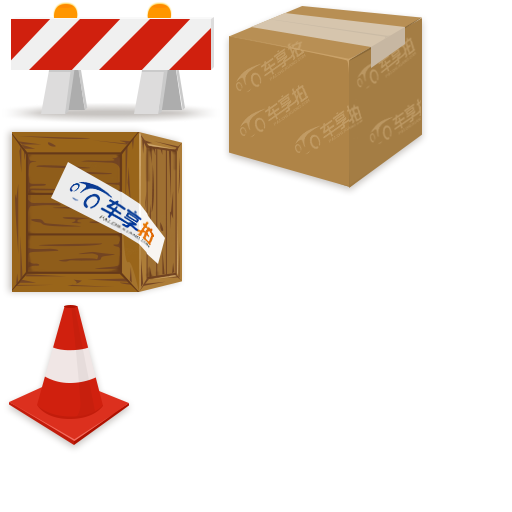
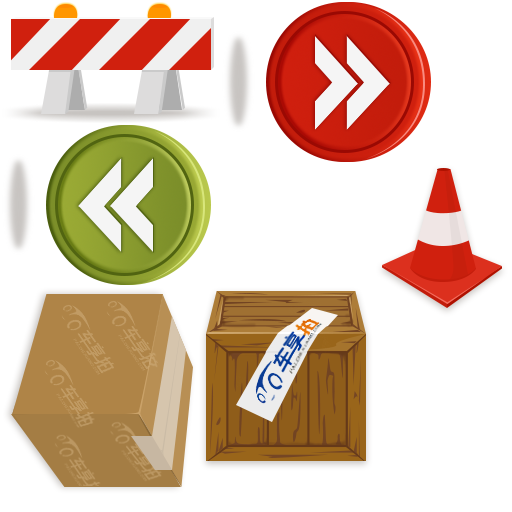
添加障碍物算法，待优化。

diff --git a/src/sprite/BarrierSprite.js b/src/sprite/BarrierSprite.js
@@ -13,20 +13,19 @@
 
 var BarrierSprite = cc.Sprite.extend({
     crushListener:null,
-    onEnter:function () {
-//        cc.log("BarrierSprite onEnter");
-        this._super();
+    barrierSprites:null,
+    spriteArrays:null,
 
+    onEnter:function () {
+        this._super();
+        this.initSprites();
+        this.schedule(this.generateBarrier, 26, cc.REPEAT_FOREVER, 0);
         this.addListener();
     },
 
     onExit:function () {
-//        cc.log("BarrierSprite onExit");
+        this.removeListener();
         this._super();
-    },
-
-    //障碍物精灵刷新
-    onUpdate:function () {
     },
 
     //添加碰撞事件监听
@@ -47,6 +46,81 @@ var BarrierSprite = cc.Sprite.extend({
 
     removeListener:function() {
         cc.eventManager.removeListener(this.crushListener);
+    },
+
+    //初始化精灵图片
+    initSprites:function () {
+        this.barrierSprites = [];
+
+        for (var i = 0; i < GC.Barrier_png_Max; i++) {
+            var str = "main_road_barrier" + (i + 1) + ".png";
+            var frame = cc.spriteFrameCache.getSpriteFrame(str);
+            this.barrierSprites.push(frame);
+        }
+    },
+
+    generateBarrier:function () {
+        for (var i = GC.Barrier_Map1.length - 1; i > 0 ; i--) {
+            var time = this.getScheduleTime(GC.Barrier_Map1[i][0]);
+
+            for (var j = 0; j < GC.Barrier_Map1[i].length; j++) {
+
+                if (j > 0) {
+                    var barrierType = GC.Barrier_Map1[i][j];
+                    if (barrierType > 0) {
+                        var sprite = new cc.Sprite(this.getBarrierFrame(barrierType));
+
+                        var x = GC.Barrier_Position[0][j - 1];
+                        var y = GC.Barrier_Org_Y;
+
+                        sprite.attr({
+                            x:x,
+                            y:y,
+                            anchorX: 0.5,
+                            anchorY: 0.5,
+                            scale:GC.Barrier_Org_Scale
+                        });
+
+                        var track = [
+                            cc.p(x, y),
+                            cc.p(GC.Barrier_Position[1][j - 1], GC.Barrier_Goal_Y),
+                        ];
+
+                        this.getParent().addChild(sprite, GC.Tree_Sprite);
+
+                        this.getParent().moveSprite(sprite, time * 10, track, GC.Barrier_Goal_Scale);
+                    }
+                }
+            }
+        }
+    },
+
+    moveSprite:function (sprite, time, track, scale) {
+        var spawn = cc.spawn(cc.catmullRomTo(time, track), cc.scaleTo(time, scale));
+
+        var seq = cc.sequence(
+            spawn,
+            cc.fadeOut(0.5),
+            cc.delayTime(1),
+            cc.callFunc(function () {
+                sprite.removeFromParent();
+            })
+        );
+
+        sprite.runAction(seq);
+    },
+
+    getScheduleTime:function (distance) {
+        return (distance / GC.Barrier_Speed).toFixed(1)
+    },
+
+    //获取障碍物图片
+    getBarrierFrame:function (value) {
+        if (value >= 0 && value < GC.Barrier_png_Max) {
+            return this.barrierSprites[value - 1];
+        } else {
+            return this.barrierSprites[0];
+        }
     },
 
     //障碍物碰撞检测

diff --git a/src/config/GameConfig.js b/src/config/GameConfig.js
@@ -15,10 +15,6 @@ GC.h_2 = GC.winSize.height / 2;
 
 GC.SOUND_ON = false;
 
-//背景图的宽高
-GC.Main_Scene_w = 840;
-GC.Main_Scene_h = 1136;
-
 //精灵添加到场景的次序
 GC.BackGround_Sprite = 0;
 GC.Road_Sprite = 1;
@@ -36,10 +32,10 @@ GC.Tree_Png_Max = 5;
 //石头图片最大个数
 GC.Stone_Png_Max = 4;
 
+GC.Barrier_png_Max = 6;
+
 //树的移动角度
 GC.Angle = 45;
-
-GC.Screen_Middle = GC.Main_Scene_w / 2;
 
 //截最左边背景截图
 GC.Bg_Left_X = 0;
@@ -137,29 +133,69 @@ GC.Stone_04_Scale = 1;
 GC.Stone_04_X = 550;
 GC.Stone_04_Y = 630;
 
+//障碍物类型
+GC.Barrier_Type1 = 1;
+GC.Barrier_Type2 = 2;
+GC.Barrier_Type3 = 3;
+GC.Barrier_Type4 = 4;
+GC.Barrier_Type5 = 5;
+GC.Barrier_Type6 = 6;
 
-GC.Road_Map = [
-    [0, 0, 1],
-    [0, 0, 0],
-    [0, 0, 0],
-    [0, 1, 0],
-    [0, 1, 0],
-    [0, 1, 0],
-    [0, 0, 0],
-    [1, 0, 0],
-    [0, 0, 0],
-    [1, 0, 0],
-    [0, 0, 0],
-    [0, 0, 1],
-    [0, 0, 0],
-    [0, 0, 0],
-    [0, 1, 0],
-    [0, 1, 0],
-    [0, 1, 0],
-    [0, 0, 0],
-    [0, 0, 0],
-    [0, 0, 0],
-    [0, 0, 0],
-    [0, 0, 0]
+//障碍物速度 xxx/s 像素每秒
+GC.Barrier_Speed = 300;
+
+//障碍物初始缩放大小及位置坐标
+GC.Barrier_Org_Scale = 0.2;
+GC.Barrier_Org_Left_X = 260;
+GC.Barrier_Org_Center_X = 320;
+GC.Barrier_Org_Right_X = 400;
+GC.Barrier_Org_Y = 700;
+
+//障碍物结束缩放大小及位置坐标
+GC.Barrier_Goal_Scale = 1;
+GC.Barrier_Goal_Left_X = -100;
+GC.Barrier_Goal_Center_X = 320;
+GC.Barrier_Goal_Right_X = 730;
+GC.Barrier_Goal_Y = -100;
+
+GC.Barrier_Position = [
+    [GC.Barrier_Org_Left_X, GC.Barrier_Org_Center_X, GC.Barrier_Org_Right_X],
+    [GC.Barrier_Goal_Left_X, GC.Barrier_Goal_Center_X, GC.Barrier_Goal_Right_X],
+];
+
+//障碍物地图1
+GC.Barrier_Map1 = [
+    [0,     6, 0, 0],
+    [500,   0, 1, 0],
+    [700,   0, 2, 0],
+    [850,   0, 0, 5],
+    [1000,  1, 0, 2],
+    [1150,  0, 0, 3],
+    [1500,  0, 6, 0],
+    [2000,  3, 0, 0],
+    [2400,  3, 0, 3],
+    [3000,  0, 1, 0],
+    [3500,  1, 0, 0],
+    [4000,  2, 0, 0],
+    [4500,  0, 0, 3],
+    [4750,  0, 3, 0]
+];
+
+//障碍物地图2
+GC.Barrier_Map2 = [
+    [0.1,     5, 0, 0],
+    [5.2,   0, 1, 0],
+    [7.2,   0, 2, 0],
+    [8.5,   0, 0, 6],
+    [10,  1, 0, 2],
+    [11.5,  0, 0, 3],
+    [15,  0, 5, 0],
+    [20,  3, 0, 0],
+    [24,  3, 0, 3],
+    [30,  0, 1, 0],
+    [35,  1, 0, 0],
+    [40,  2, 0, 1],
+    [45,  0, 0, 3],
+    [47,  0, 3, 0]
 ];
 

diff --git a/src/MainScene.js b/src/MainScene.js
@@ -73,7 +73,6 @@ var MainLayer = cc.Layer.extend({
 
     //添加背景图片
     addBackGround:function () {
-        var size = cc.winSize;
         this.bgSprite = new BgSprite(res.BackGround_png, cc.rect(GC.Bg_Center_X, GC.Bg_Center_Y, GC.w, GC.h));
         this.bgSprite.attr({
             x: GC.w_2,
@@ -289,14 +288,15 @@ var MainLayer = cc.Layer.extend({
     //添加障碍物精灵
     addBarrierSprite:function () {
         this.barrierSprites = [];
-        cc.spriteFrameCache.addSpriteFrames(res.Stone_plist);
-        this.schedule(this.updateBarrierSprite, 1, cc.REPEAT_FOREVER, 0);
+        cc.spriteFrameCache.addSpriteFrames(res.Barrier_plist);
+//        this.schedule(this.updateBarrierSprite, 1, cc.REPEAT_FOREVER, 0);
+
+        var barrier = new BarrierSprite();
+        this.addChild(barrier, GC.Barrier_Sprite);
     },
 
     //刷新障碍物精灵
     updateBarrierSprite:function () {
-        var size = cc.winSize;
-
         var barrierSprite = new BarrierSprite("res/main/main_road_barrier2.png");
         this.barrierRemove = barrierSprite.height;
         var x = barrierSprite.width/2 + GC.w * cc.random0To1();
@@ -392,29 +392,6 @@ var MainLayer = cc.Layer.extend({
     updateFaultSprite:function () {
 
     },
-
-    carCrash:function() {
-        for (var i = 0; i < this.barrierSprites.length; i++) {
-            var carRect = this.carSprite.getBoundingBox();
-            var barrierRect = this.barrierSprites[i].getBoundingBox();
-            cc.log("carRect.y = ", carRect.y);
-            cc.log("carRect.height = ", carRect.height);
-            cc.log("barrierRect.y = ", barrierRect.y);
-            cc.log("barrierRect.height = ", barrierRect.height);
-
-            if(cc.rectIntersectsRect(carRect, barrierRect)){
-                  //发生碰撞事件
-                cc.log("carCrash");
-                this.barrierSprites[i].runAction(cc.sequence(
-                    cc.rotateBy(0.5, 360),
-                    cc.fadeOut(0.5))
-                );
-                this.removeBarrierSpriteByCrush(i);
-
-                return true;
-            }
-        }
-    }
 });
 
 var MainScene = cc.Scene.extend({
